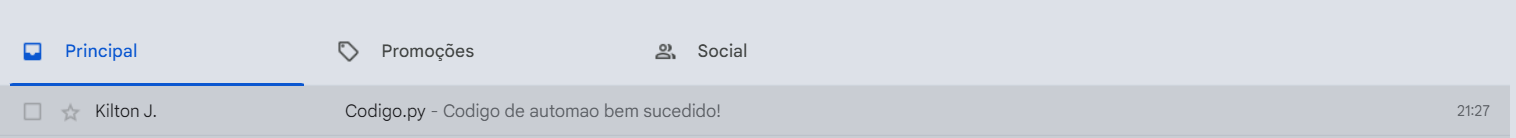
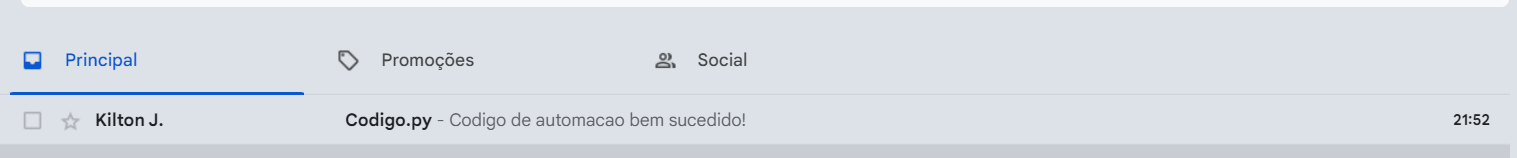
Resultado adicionado

diff --git a/pyauto.py b/pyauto.py
@@ -21,7 +21,7 @@ pyautogui.click(assunto)
 pyautogui.write("Codigo.py")
 
 pyautogui.click(x=1262, y=577)
-pyautogui.write("Codigo de automação bem sucedido!")
+pyautogui.write("Codigo de automacao bem sucedido!")
 
 enviar = pyautogui.locateCenterOnScreen("imagens/enviar.png")
 pyautogui.click(enviar)
